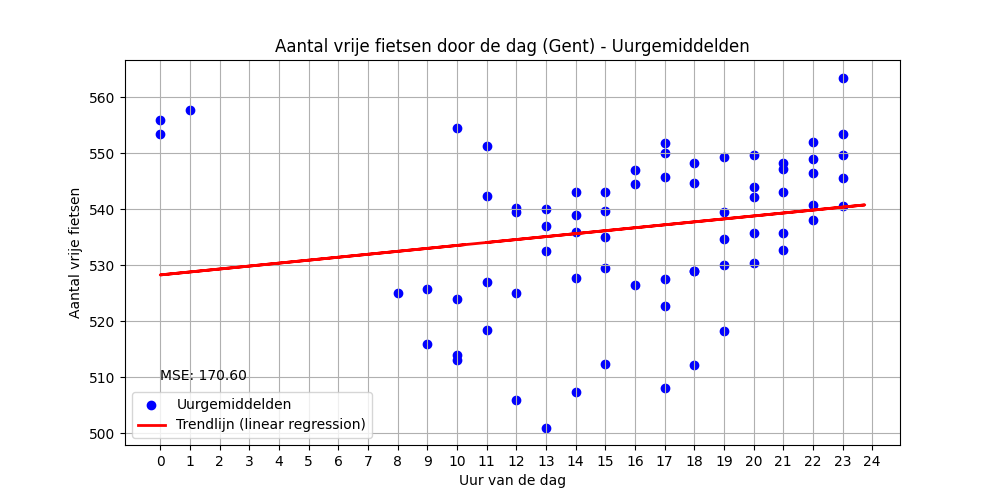
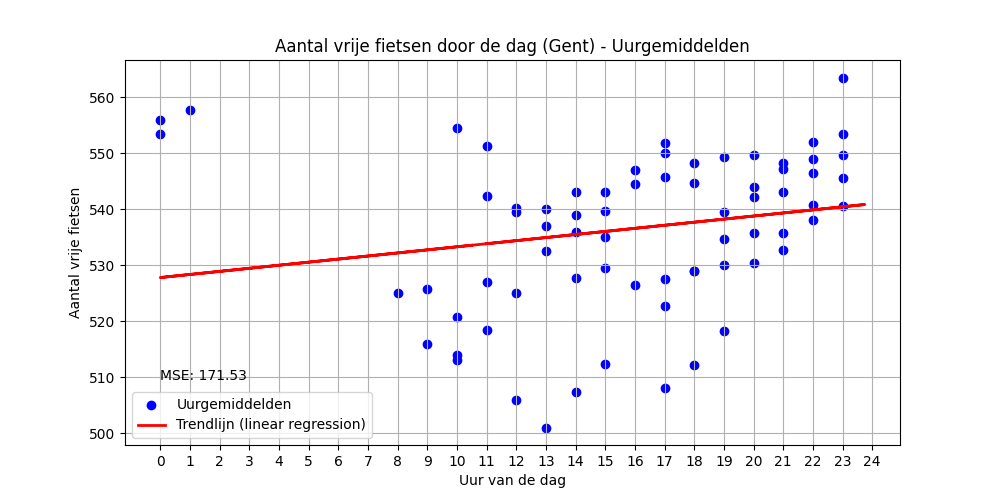
Automatische update 2025-11-19 10:30:10

diff --git a/reports/report.md b/reports/report.md
@@ -1,12 +1,12 @@
 # Data Workflow Rapport
 
-**Gegenereerd op:** 2025-11-19 10:15:07.994805
+**Gegenereerd op:** 2025-11-19 10:30:10.097392
 
 ## Grafiek: Vrije fietsen vs Temperatuur
 ![Fietsen vs Temp](fiets_vs_temp.png)
 
 ## Basisstatistieken
-- Gemiddelde temperatuur: 9.98 °C
+- Gemiddelde temperatuur: 9.96 °C
 - Gemiddeld aantal vrije fietsen: 537
 - Gemiddeld aantal fietsen overdag (07-19u): 532
 - Gemiddeld aantal fietsen ’s nachts (19-07u): 543
@@ -18,7 +18,7 @@
 |---------|-----|-----|------------|
 | Maandag | 500 | 556 | 526 |
 | Dinsdag | 501 | 566 | 532 |
-| Woensdag | 521 | 527 | 525 |
+| Woensdag | 514 | 527 | 523 |
 | Donderdag | 525 | 550 | 535 |
 | Vrijdag | 535 | 557 | 545 |
 | Zaterdag | 522 | 560 | 537 |
